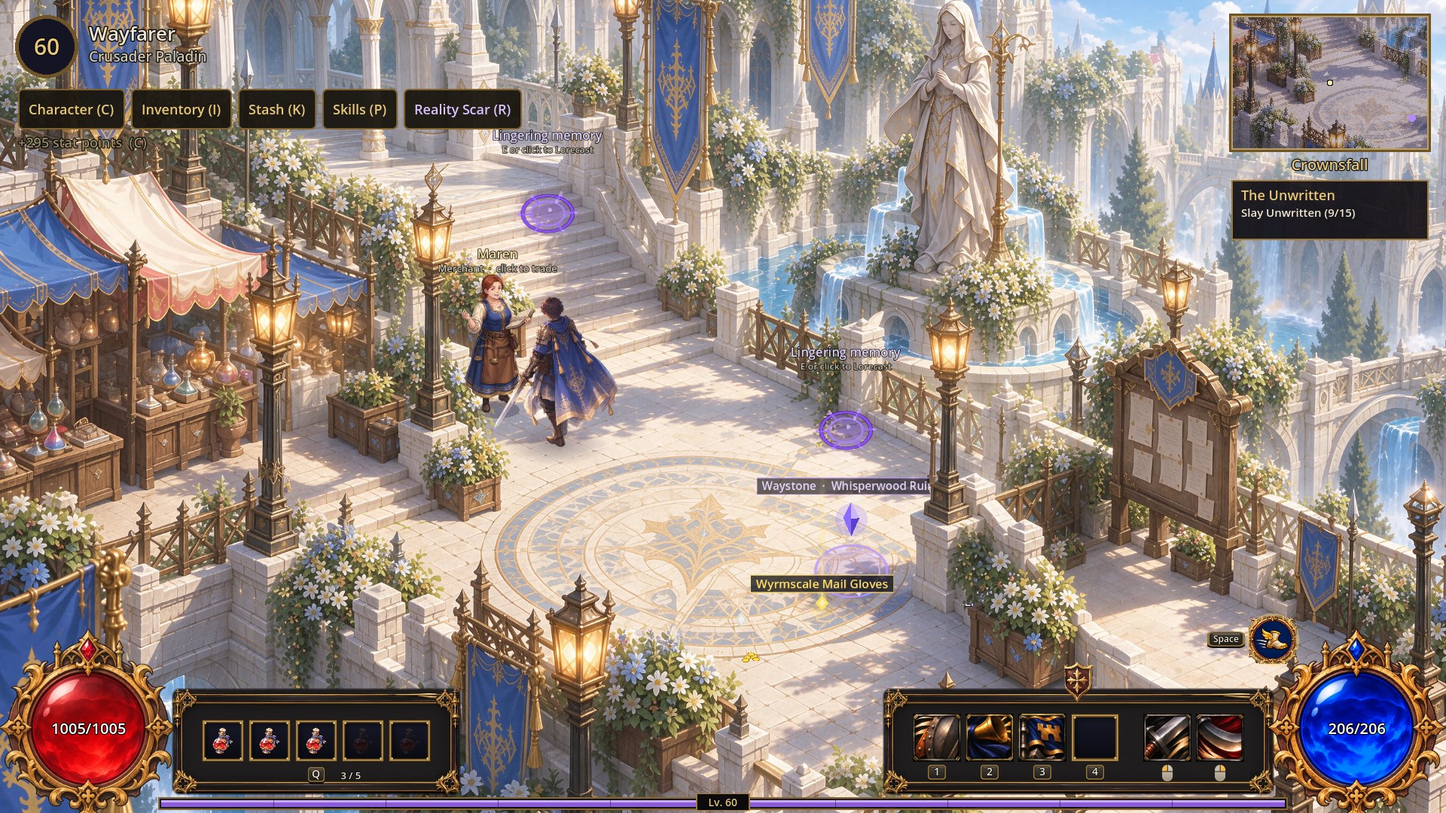
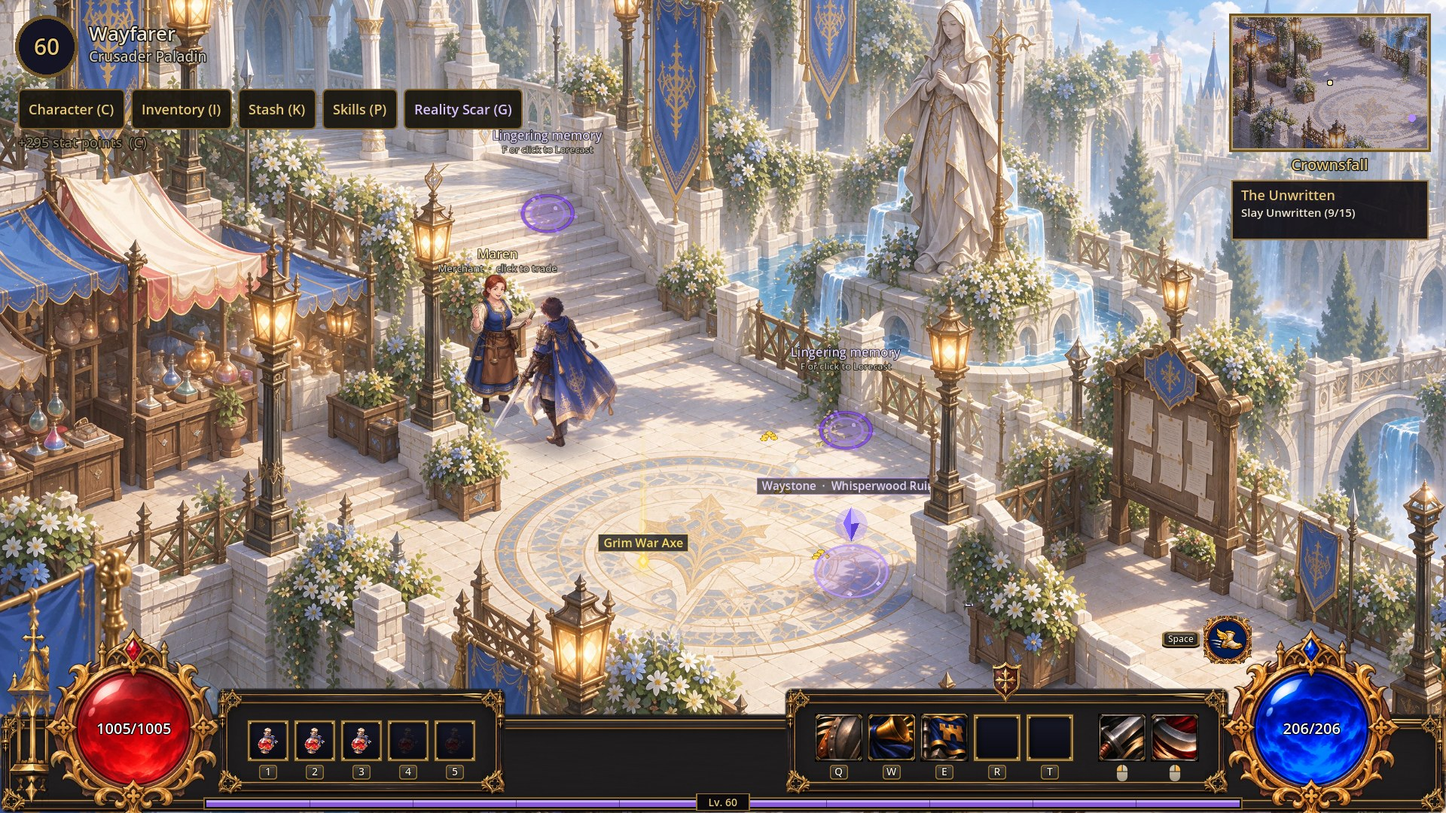
Skills on Q W E R T, potions on 1-5, and a full-width HUD base
- Skill bar: Q W E R T plus LMB and RMB; keys 1-5 drink potions (key caps
  under each bottle). Talk / Lorecast / Waystone moves to F, the Reality
  Scar to G.
- An ornate base strip spans the full screen width and gothic pillars cut
  from the Higgsfield panel frame stand at both edges beside the orbs.
- 188 of 188 checks pass.

Claude-Session: https://claude.ai/code/session_01HXUneWBipxvB69FSMXEcEC

diff --git a/crownfall/tools/make_ui_art.py b/crownfall/tools/make_ui_art.py
@@ -27,10 +27,11 @@ OUT = os.path.join(HERE, "..", "assets", "ui")
 SS = 4  # supersampling for hand-drawn pieces
 
 # skill bar plate size in HUD pixels (must match hud.gd: bar_w + 80 by sz + 78)
-SZ, GAP, GROUP_GAP, SLOTS = 64, 6, 26, 6
+SZ, GAP, GROUP_GAP, SLOTS = 64, 6, 26, 7
 BAR_W = SLOTS * SZ + (SLOTS - 1) * GAP + GROUP_GAP
 PLATE = (BAR_W + 80, SZ + 78)
-BELT = (5 * 56 + 4 * 6 + 80, SZ + 78)   # potion belt plate (hud.gd: belt_w + 80 by sz + 78)
+BELT = (5 * 56 + 4 * 6 + 80, SZ + 78)
+STRIP = (1920, 132)   # full-width base under the HUD (stretched to the window width)   # potion belt plate (hud.gd: belt_w + 80 by sz + 78)
 
 
 def nine_slice(src, m, size, k):
@@ -70,6 +71,23 @@ def bar_plate(panel, size=None):
     ImageDraw.Draw(a).rounded_rectangle([2, 2, tw - 3, th - 3], radius=18, fill=255)
     plate.putalpha(ImageChops.multiply(plate.getchannel("A"), a.filter(ImageFilter.GaussianBlur(2))))
     return plate
+
+
+def base_strip(panel):
+    """The long ornate base that runs the full width of the screen under the orbs and plates."""
+    return bar_plate(panel, STRIP)
+
+
+def edge_pillar(panel):
+    """The gothic pillar from the frame's top-left corner, keyed off the dark background,
+    to stand at the screen edges beside the life and mana orbs."""
+    c = panel.crop((4, 0, 100, 404))
+    hsv = np.asarray(c.convert("HSV")).astype(float)
+    v, sat = hsv[..., 2], hsv[..., 1]
+    alpha = np.clip(np.maximum(v - 62, 0) * 2.4 + np.maximum(sat - 80, 0) * 1.0, 0, 255)
+    out = c.copy()
+    out.putalpha(Image.fromarray(alpha.astype(np.uint8)).filter(ImageFilter.GaussianBlur(0.6)))
+    return out
 
 
 def crest(panel):
@@ -330,6 +348,8 @@ def main():
     bar_plate(panel).save(os.path.join(OUT, "bar_plate.png"))
     crest(panel).save(os.path.join(OUT, "bar_crest.png"))
     bar_plate(panel, BELT).save(os.path.join(OUT, "belt_plate.png"))
+    base_strip(panel).save(os.path.join(OUT, "base_strip.png"))
+    edge_pillar(panel).save(os.path.join(OUT, "edge_pillar.png"))
     socket().save(os.path.join(OUT, "slot_socket.png"))
     keycap().save(os.path.join(OUT, "keycap.png"))
     mouse(True).save(os.path.join(OUT, "mouse_l.png"))

diff --git a/crownfall/HANDOFF.md b/crownfall/HANDOFF.md
@@ -59,18 +59,20 @@ for the knight and three painted enemy types:
   `CAM_ZOOM` 0.72 in `main.gd` (the paintings are 2720 wide, so this shows
   nearly a whole zone); world text (names, loot, memories, damage numbers) is
   drawn larger to stay readable. Bottom left: the life orb in the corner and a
-  belt of five potion bottles (Q drinks; clicking the belt drinks too). Bottom
+  belt of five potion bottles (keys 1-5 drink; clicking the belt drinks too). Bottom
   right: the skill plate and the mana orb in the corner, the dodge button above.
   The XP bar runs across the bottom between the orbs with "Lv. N" in the middle.
   The plaza and ruins Waystones moved up so the HUD never covers them.
-- **Skill bar (Diablo 4 layout):** keys 1-4 on the left, a gap, then LMB and
-  RMB, with key caps or mouse icons under each slot. **Any skill goes in any
+- **Skill bar:** keys Q W E R T, a gap, then LMB and RMB, with key caps or mouse icons under each slot. **Any skill goes in any
   slot:** drag a skill's icon from the spellbook (P) onto a slot, drag between
   slots to swap, drag one off the bar to empty its slot. A skill sits on the bar
   at most once (placing it again moves it). Clicking an enemy attacks with the
   LMB skill (Slash fills in while it is on cooldown or short of mana). Layout is
-  `player.bindings` (saved; order 1, 2, 3, 4, LMB, RMB; default Charge, Rally,
-  spec skill, empty | Slash, Cleave). The level diamond
+  `player.bindings` (saved; order Q, W, E, R, T, LMB, RMB; default Charge,
+  Rally, spec skill, empty, empty | Slash, Cleave). Keys: F talks to Maren /
+  Lorecasts / uses a Waystone, G opens or closes the Reality Scar. An ornate
+  full-width base (`assets/ui/base_strip.png`) and gothic edge pillars
+  (`edge_pillar.png`), both from the Higgsfield panel frame, frame the HUD. The level diamond
   and XP bar run along the top of the bar; the potion is a round button on the
   life orb's upper right (Q, with its count).
   `EVADE` in `game_data.gd` also defines a **Blink** (5.5 units, instant, 0.6 s

diff --git a/README.md b/README.md
@@ -20,8 +20,8 @@ anime art inspired by Ragnarok Online and Octopath Traveler. Built in **Godot 4.
 
 ## Controls
 
-Click to move and attack · 1–4 skills · Q potion · C character · I inventory ·
-K stash · P spellbook · Space dodge roll · J journal · E talk / Lorecast · R Reality Scar · Esc close.
+Click to move and attack · Q W E R T skills · 1–5 potions · C character · I inventory ·
+K stash · P spellbook · Space dodge roll · J journal · F talk / Lorecast / Waystone · G Reality Scar · Esc close.
 
 ## Testing
 
